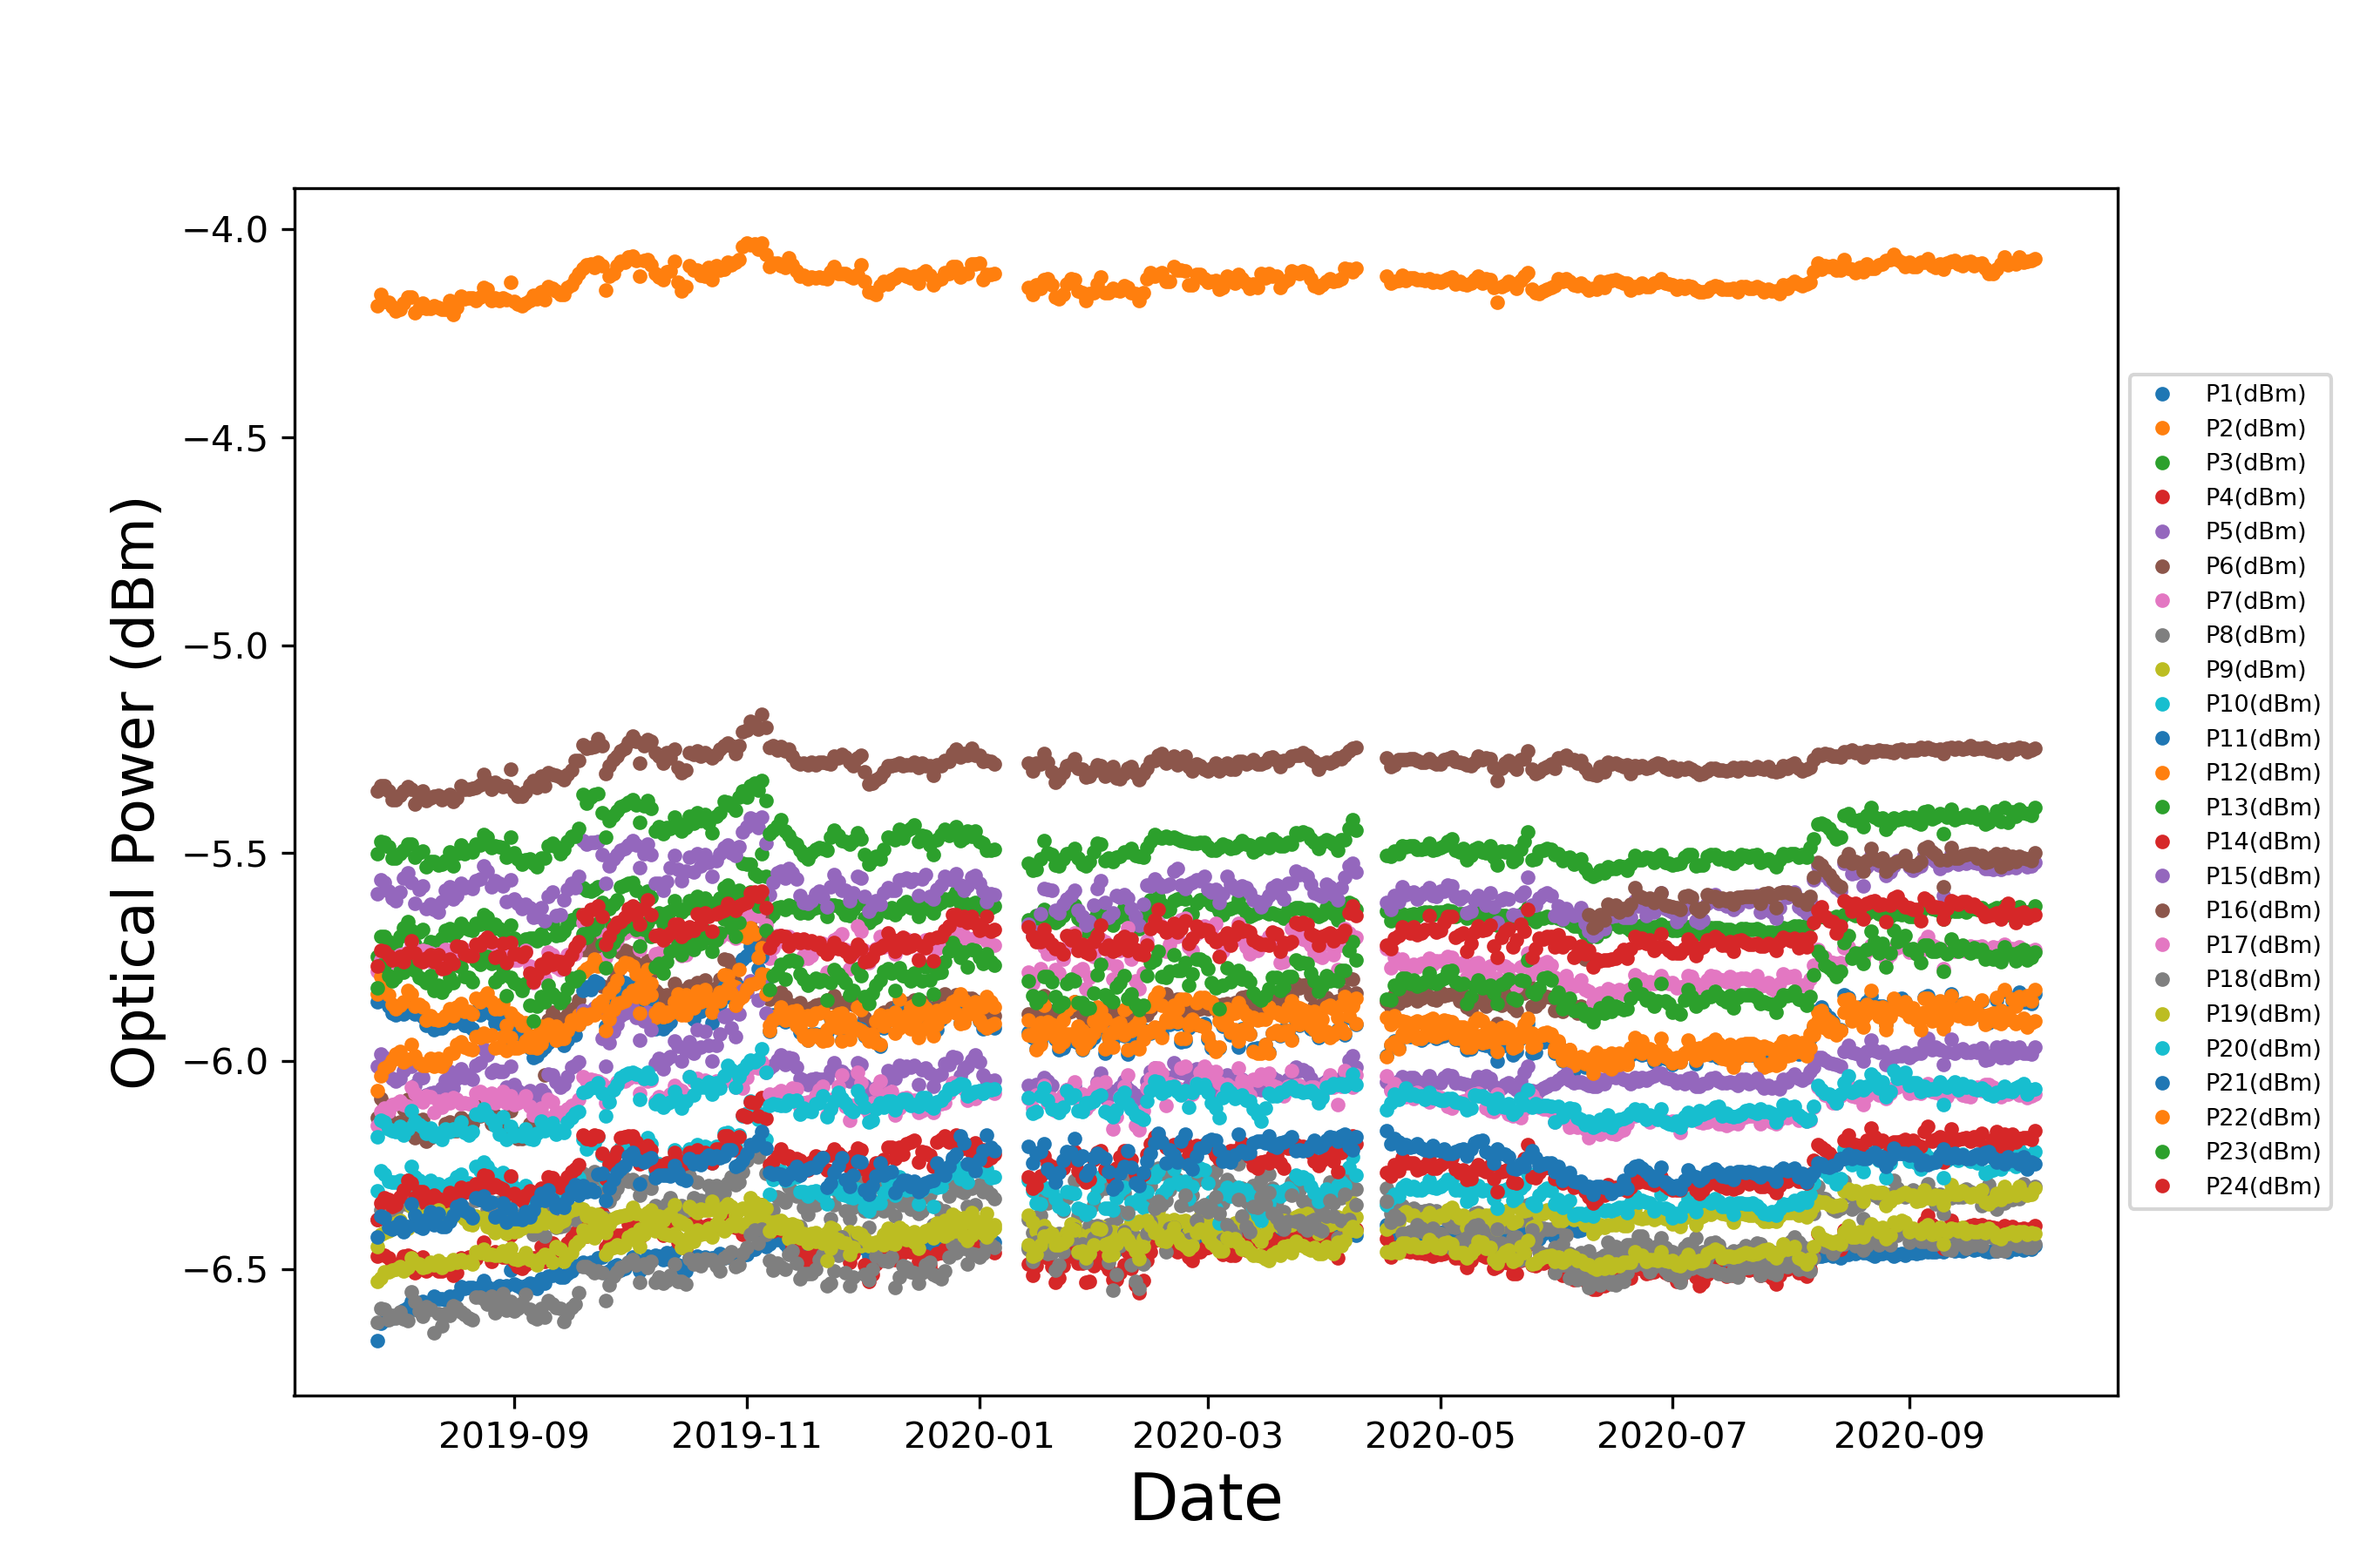
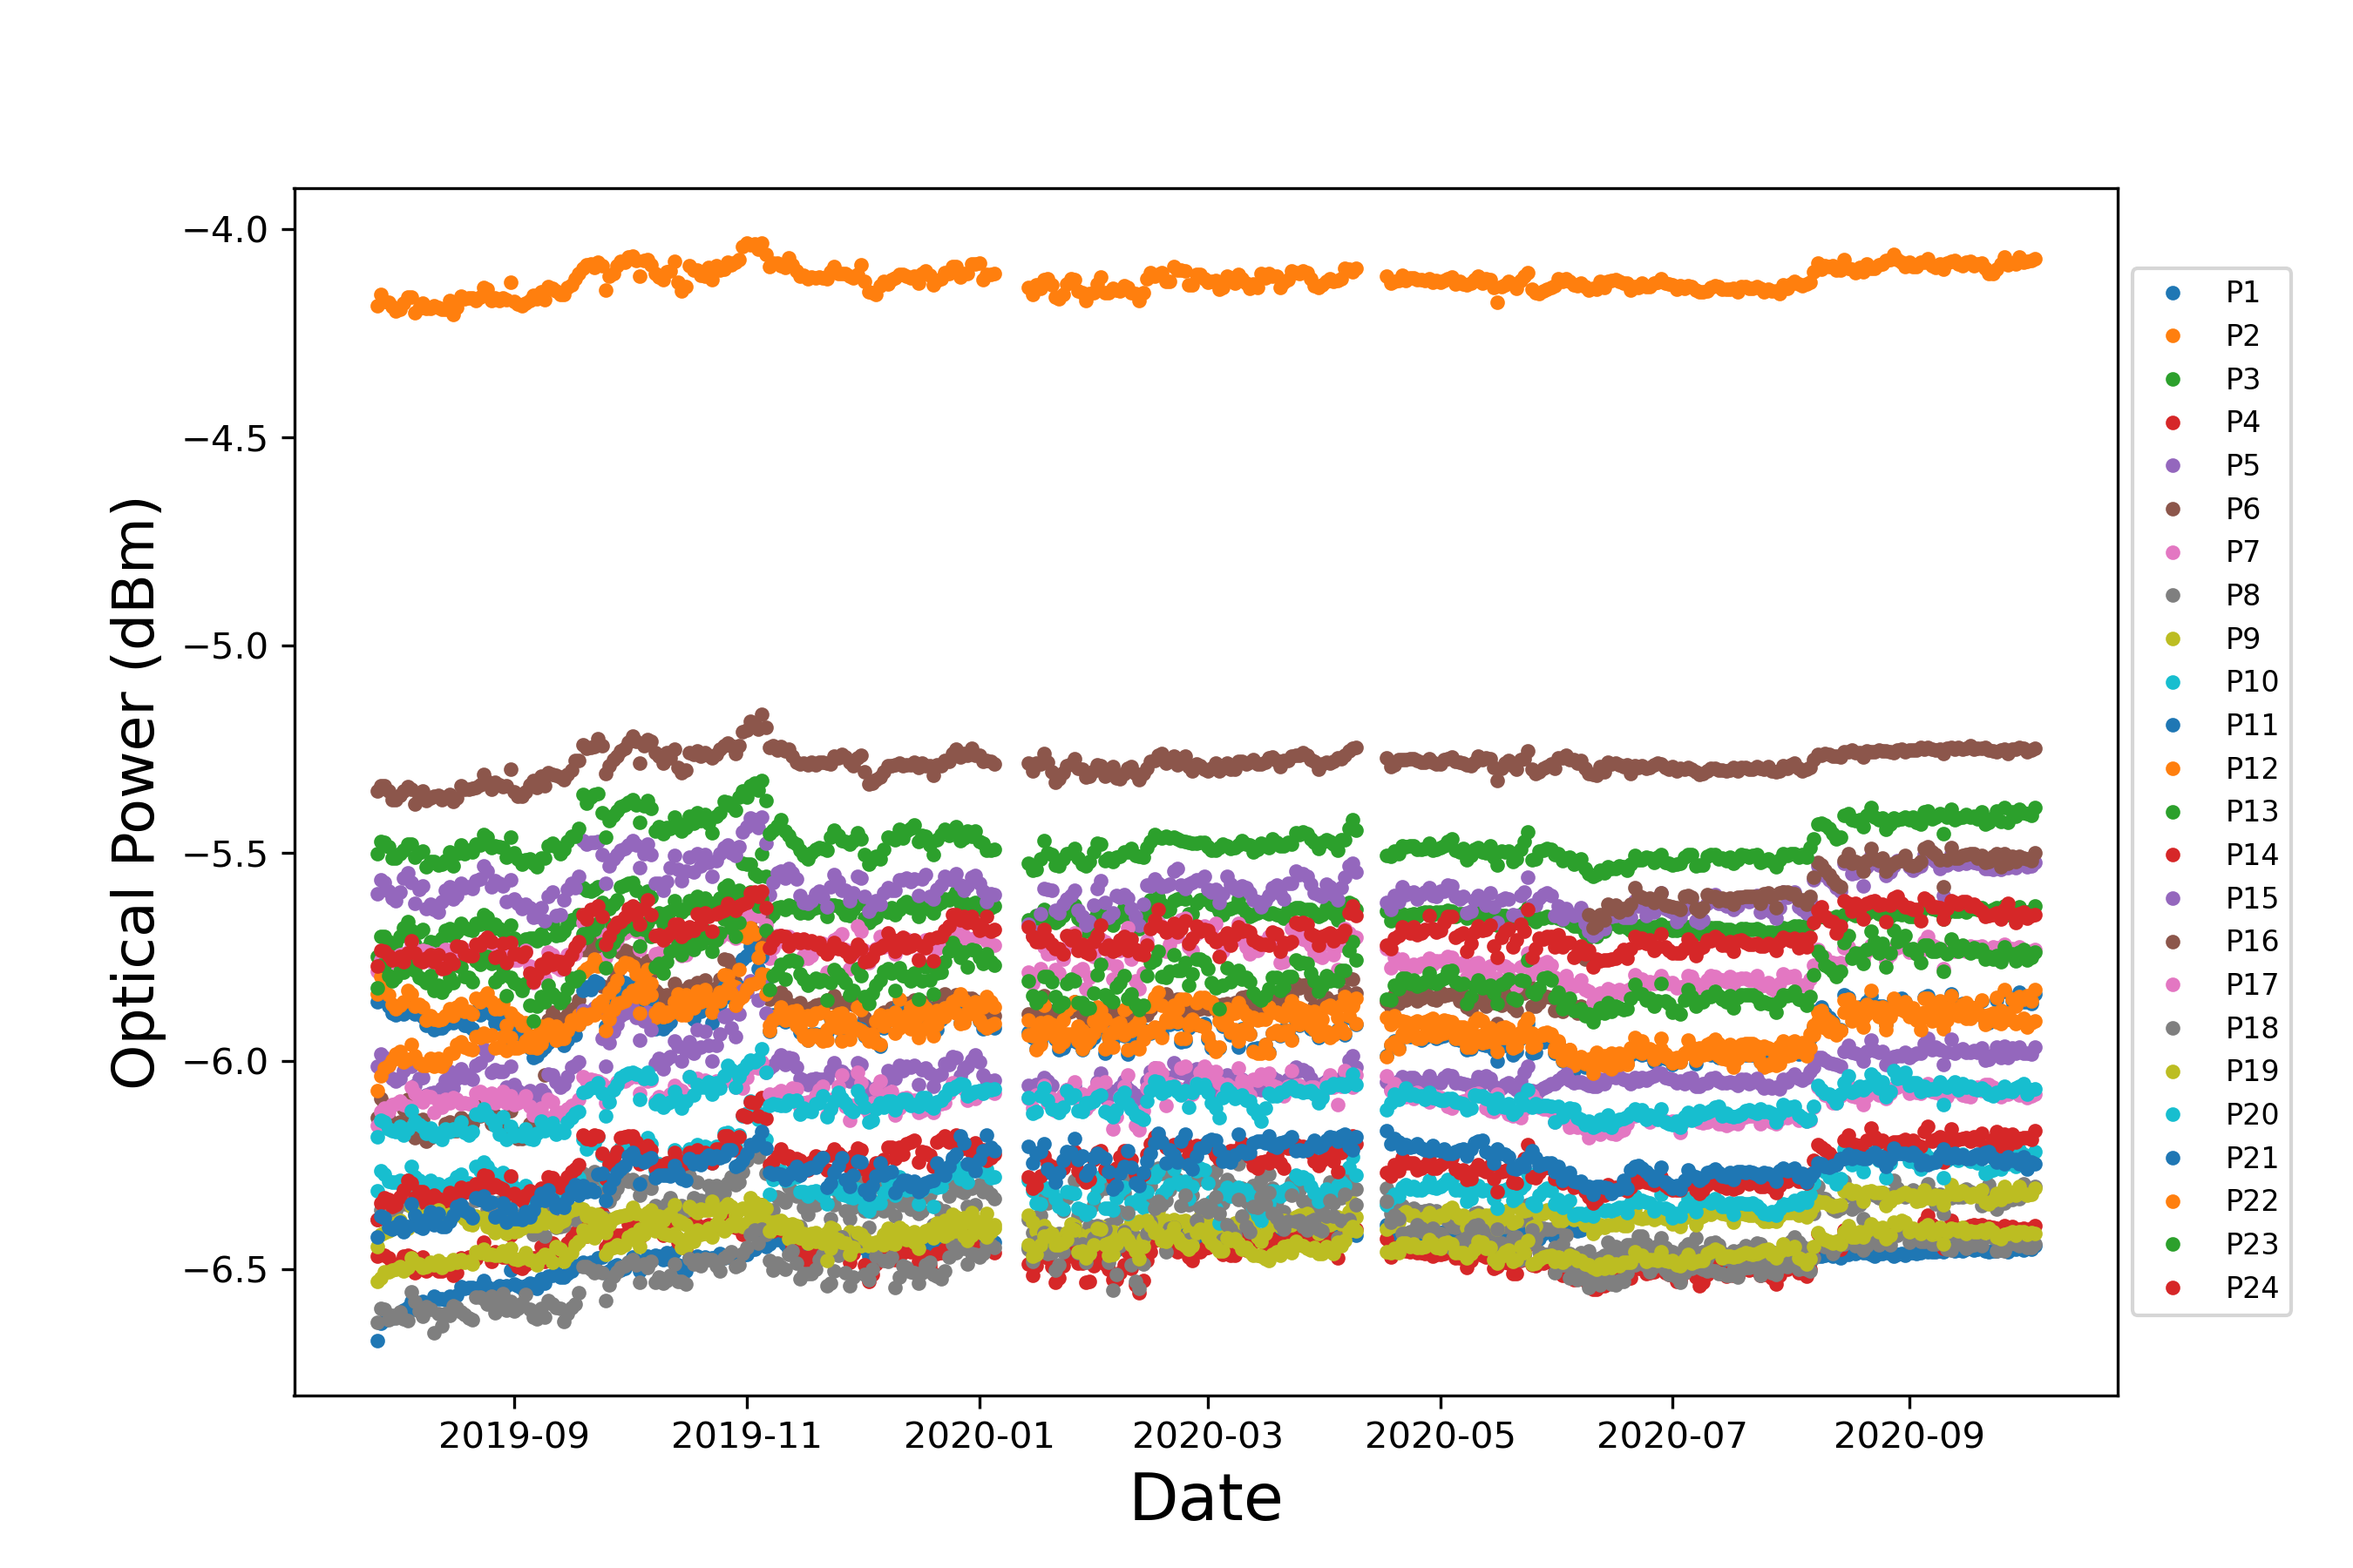
added dBm to y-axis label

Changed region(s): [[0.9022, 0.1556, 0.9956, 0.7778], [0.9022, 0.8089, 0.9644, 0.84]]

diff --git a/Life_Test_Power_Wang.py b/Life_Test_Power_Wang.py
@@ -47,7 +47,7 @@ dffig = dfapp.plot(marker = ".", linestyle = 'None', figsize = (9, 6) )
 plt.legend(prop={'size': 8}, loc='center left', bbox_to_anchor=(1, 0.5))
 # plt.show()
 plt.xlabel('Date', fontsize=18)
-plt.ylabel('Optical Power ', fontsize=16)
+plt.ylabel('Optical Power (dBm)', fontsize=16)
 plt.savefig('foo.png', dpi=300)
 dffig.figure.savefig('testAll.png', dpi=300)
 
